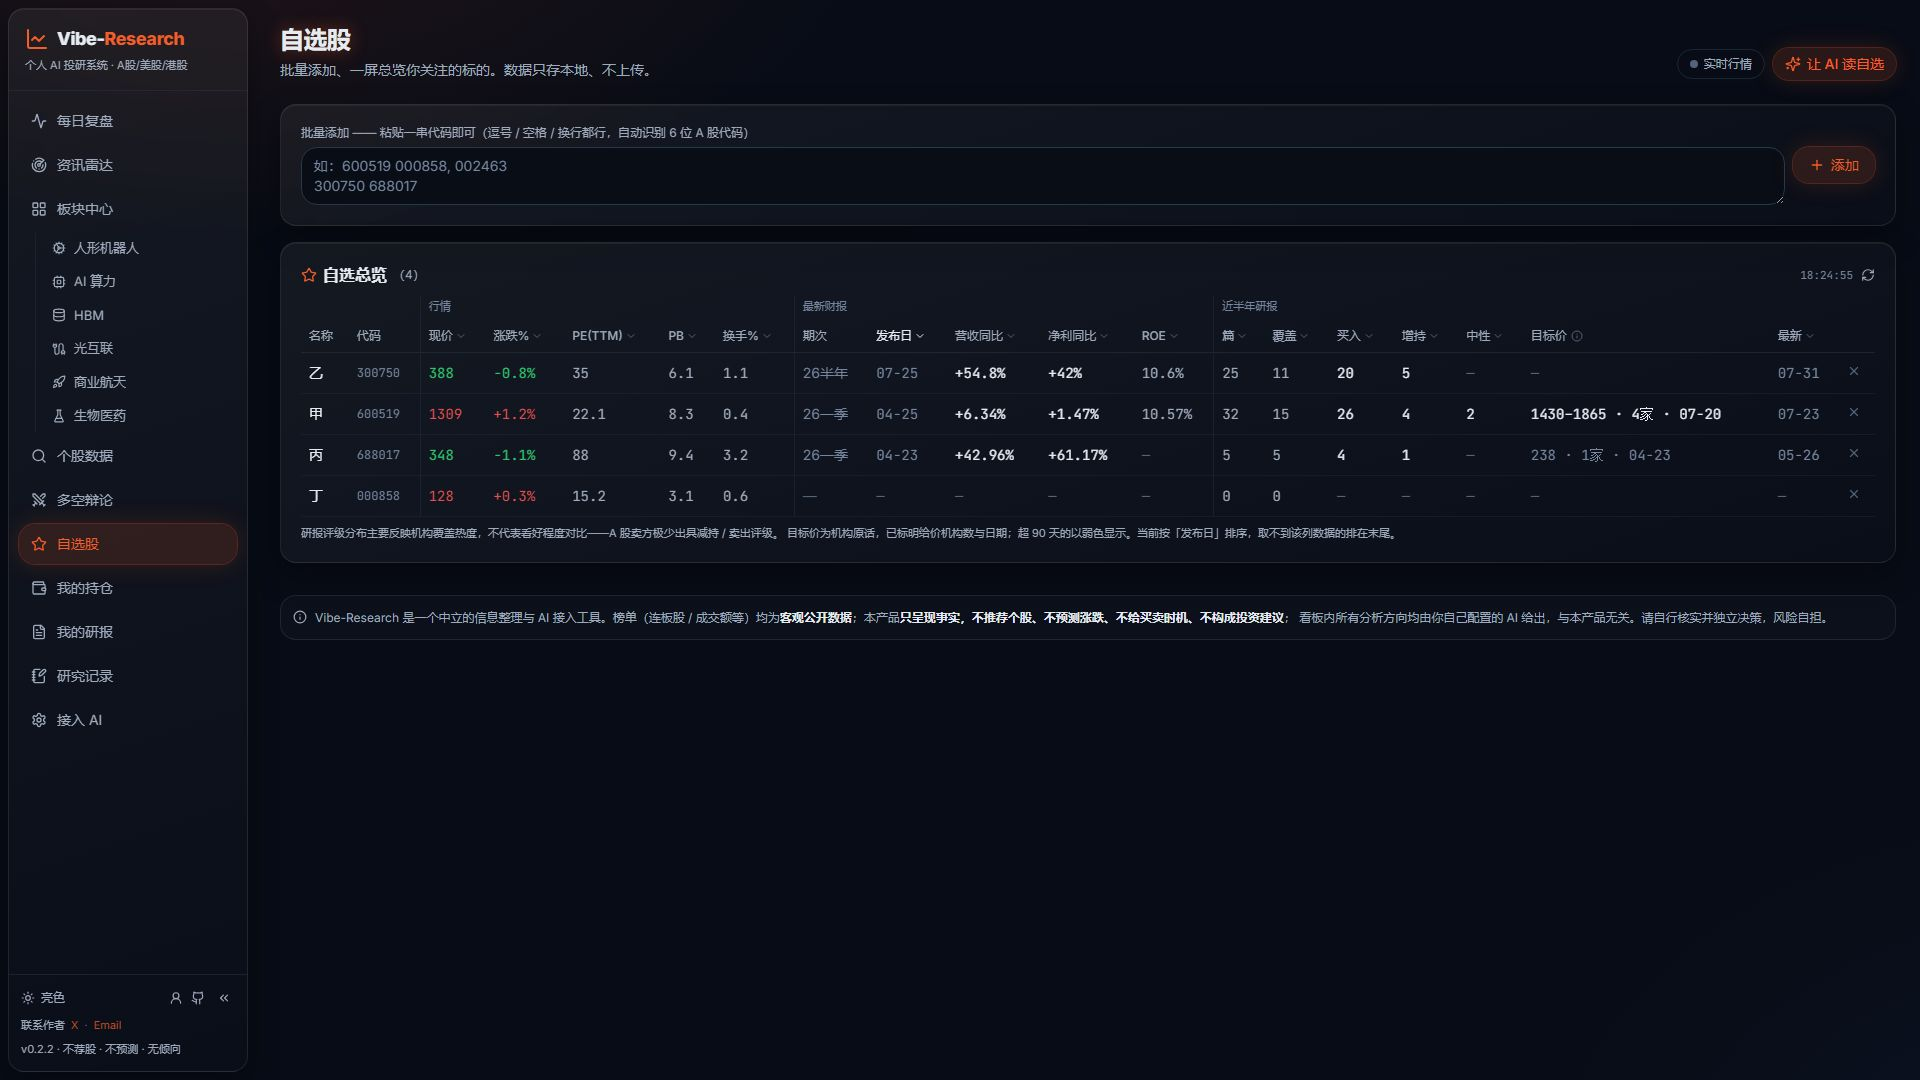
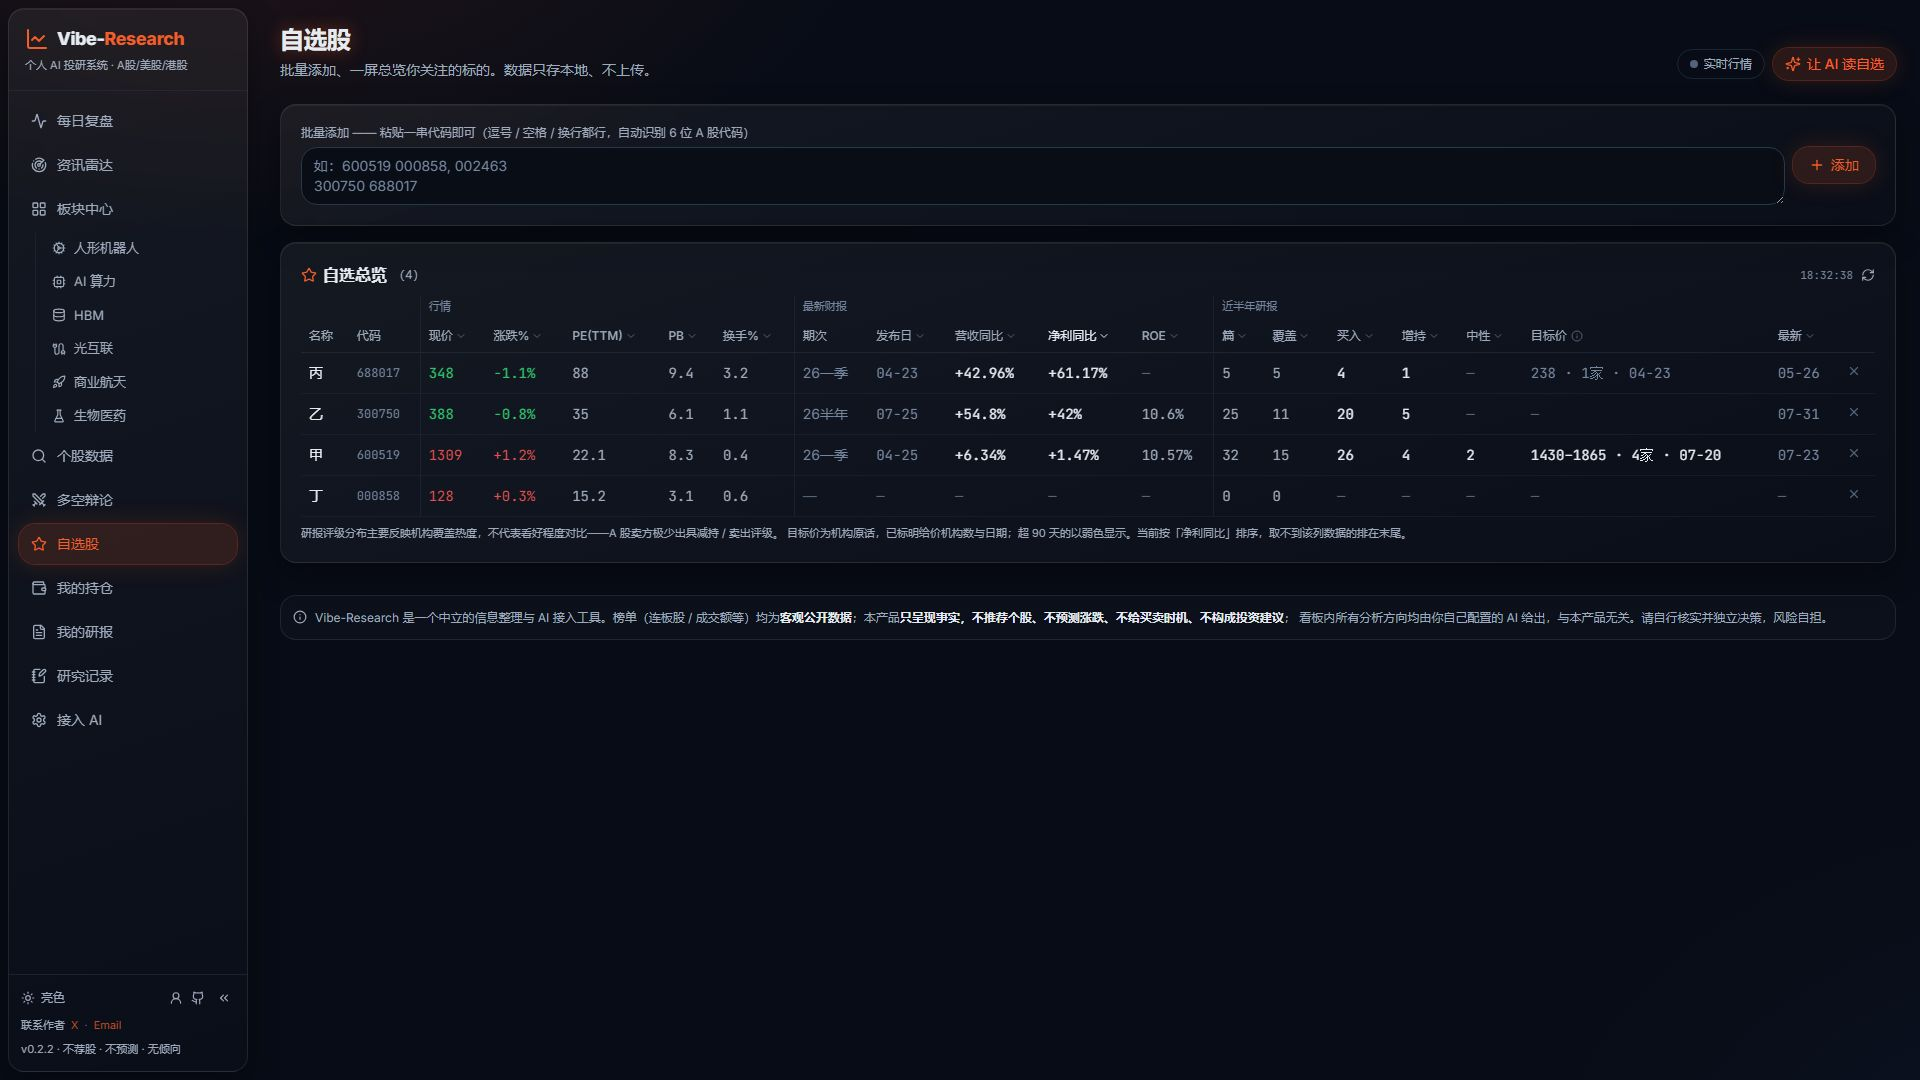
fix: VR-GOAL-023 排序截图拍摄时机错位
04_按净利同比排序.jpg 实际截的是用例末尾（那时已改按「发布日」排过），
文件名与内容对不上——违反「一张图证明一条验收项、文件名直接写清楚证明什么」。
shot() 移到净利同比降序断言之后。

四张截图已逐张打开确认：不是白屏、不是 loading 定格、内容与文件名一致。

Claude-Session: https://claude.ai/code/session_01WavQSJHm4fZbL2fDRB8n4K

diff --git a/frontend/e2e/VR-GOAL-023_watchlist-fundamentals.spec.ts b/frontend/e2e/VR-GOAL-023_watchlist-fundamentals.spec.ts
@@ -210,6 +210,9 @@ test("验收项6 · 按净利同比排序，缺该列数据的沉底；目标价
   await expect(th(page, "净利同比")).toHaveAttribute("aria-sort", "descending");
   // 丙 61.17 > 乙 42.0 > 甲 1.47；丁没有财报数据 → 沉底
   expect(await rowNames(page)).toEqual(["丙", "乙", "甲", "丁"]);
+  // ⚠ 截图必须在**这里**拍，不能等到用例末尾——那时表格已经按「发布日」排过了，
+  // 截出来的图和文件名对不上。文件名要直接说清它证明的是哪一条。
+  await shot(page, GOAL, "04_按净利同比排序");
 
   await th(page, "净利同比").getByRole("button").click();
   await expect(th(page, "净利同比")).toHaveAttribute("aria-sort", "ascending");
@@ -231,7 +234,6 @@ test("验收项6 · 按净利同比排序，缺该列数据的沉底；目标价
   await expect(th(page, "发布日")).toHaveAttribute("aria-sort", "descending");
   expect(await rowNames(page)).toEqual(["乙", "甲", "丙", "丁"]);
 
-  await shot(page, GOAL, "04_按净利同比排序");
   console_.check();
 });
 

diff --git a/docs/goals/VR-GOAL-023_watchlist-fundamentals.md b/docs/goals/VR-GOAL-023_watchlist-fundamentals.md
@@ -95,14 +95,14 @@
 ## 合规检查
 
 - [x] 不涉及荐股 / 买卖时机 / 主观评分排名——VR 不产出任何判断，只转述机构原话与财报原值
-- [ ] ⚠ **「不预测涨跌」这条口径本 Goal 要变**：机构目标价属价格预测。
+- [x] ⚠ **「不预测涨跌」这条口径本 Goal 已变**：机构目标价属价格预测。
       负责人已明确拍板要做，故须**同步修改两处**，写明新口径：
       机构目标价按原样转述、标注给价机构数与日期、超 90 天弱化显示；
       **VR 不自行推算目标价、不计算隐含涨跌空间**。
       1. `CLAUDE.md` 的红线一节——给人看的文档；
       2. `chat.SYSTEM_PROMPT`（决策 13）——**运行时真正生效的那份，更要紧**。
       产品放了目标价而文档与提示词还写着禁止，就是本项目最忌讳的「真相漂移」。
-- [ ] ⚠ **目标价会经 `tools.py` 流向 MCP 出口**（决策 8 的已知代价）。
+- [x] ⚠ **目标价会经 `tools.py` 流向 MCP 出口**（决策 8 的已知代价）。
       MCP 没有 `SYSTEM_PROMPT` 约束，提示词由对接的宿主提供，VR 管不到。
       负责人已知情裁决。
 - [x] 不把打板原始池（含个股名单）直接暴露到 API 或 UI——本 Goal 不碰打板层
